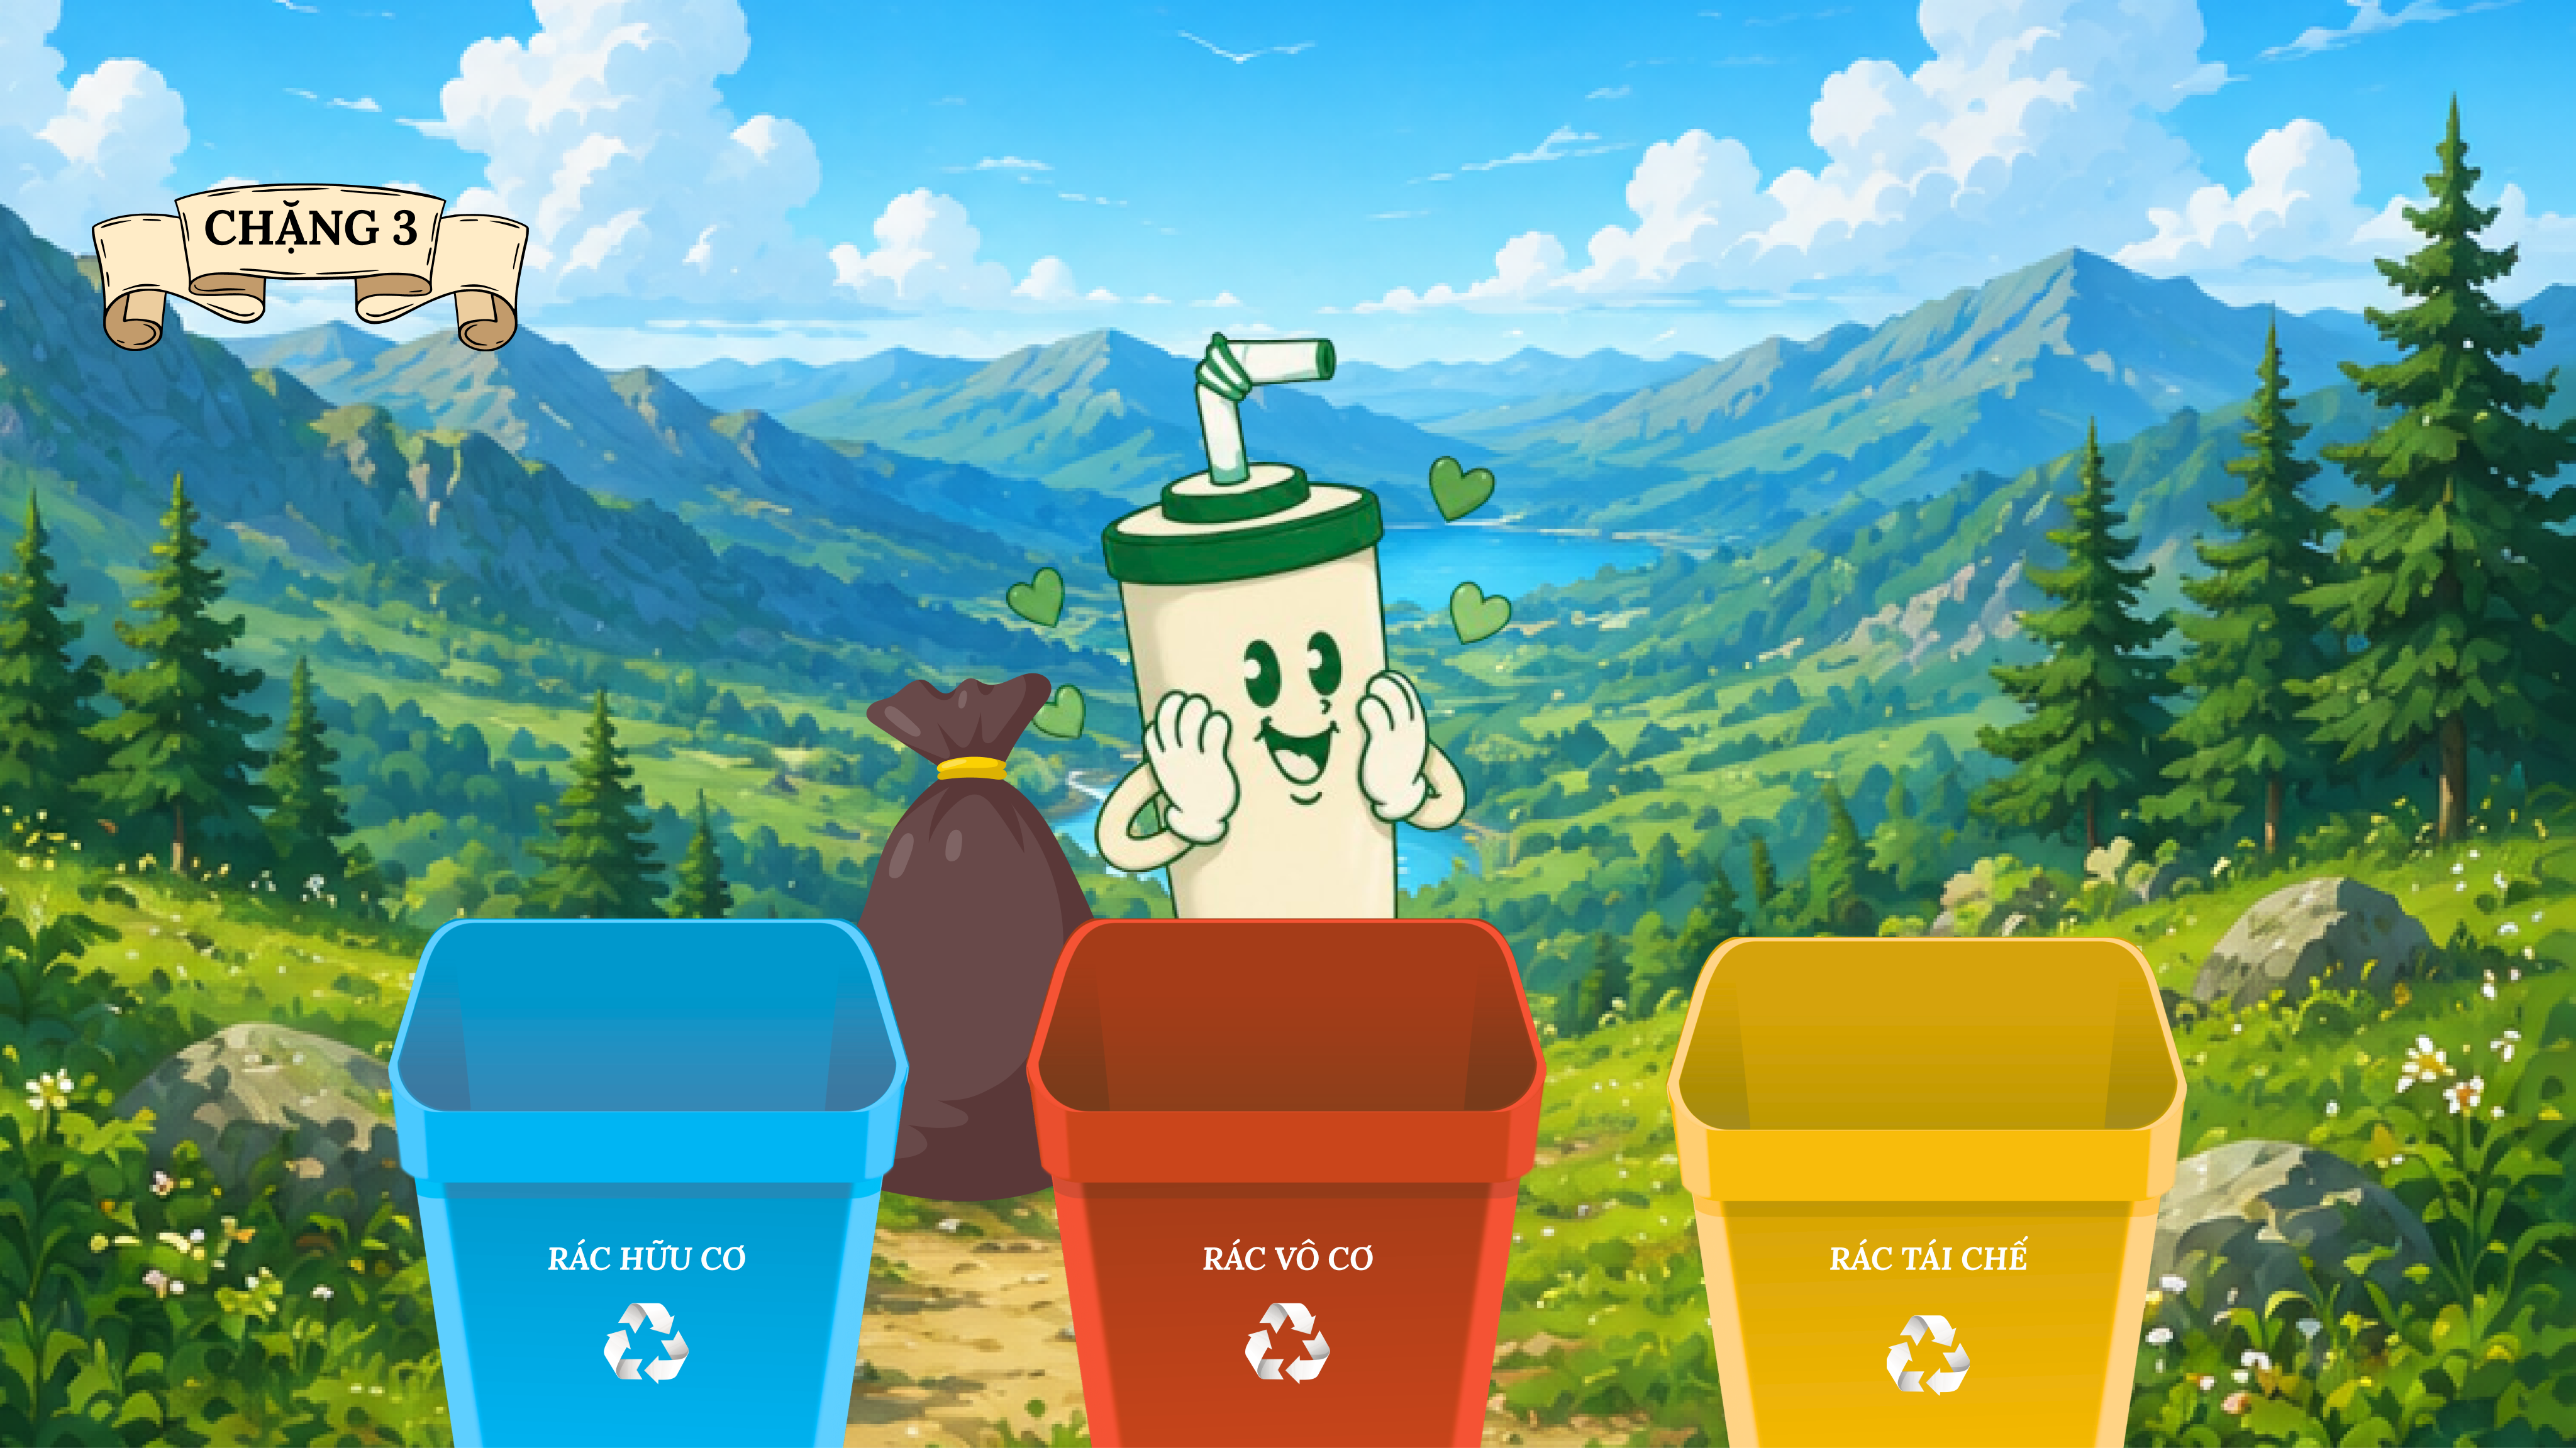
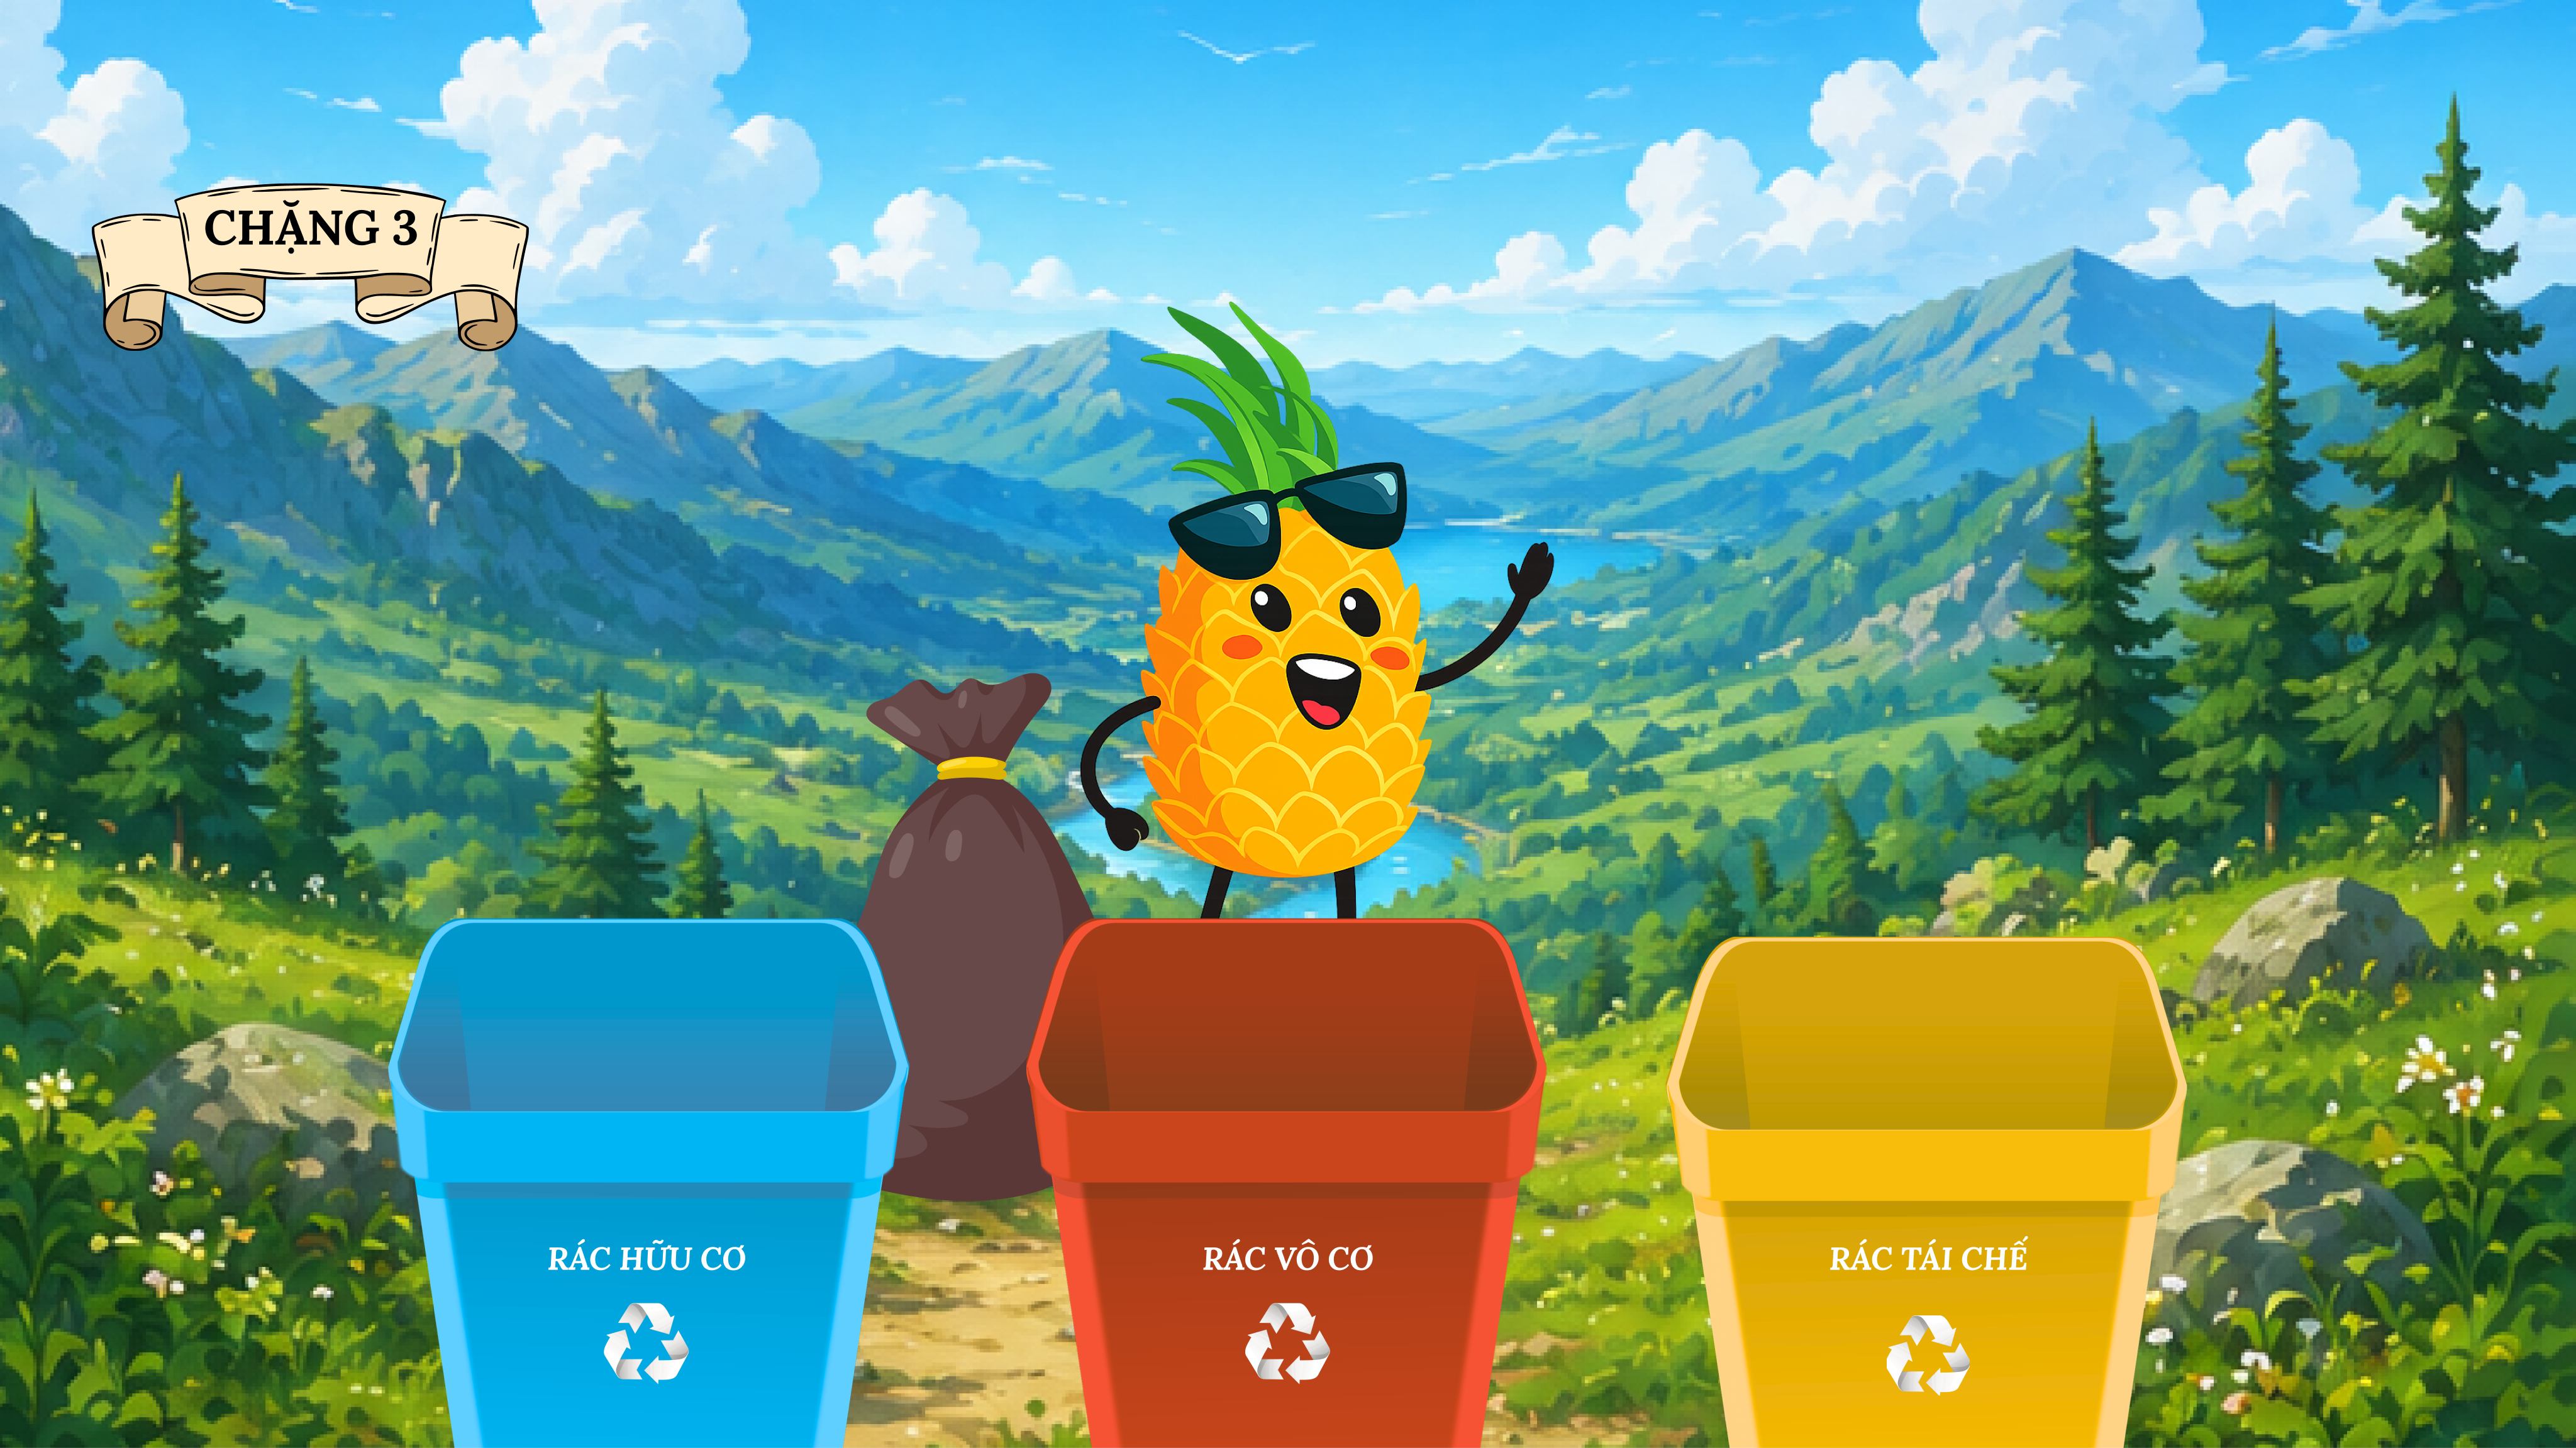
Change mascot

Changed region(s): [[0.375, 0.2158, 0.625, 0.6474]]

diff --git a/src/pages/ResultPage.css b/src/pages/ResultPage.css
@@ -189,13 +189,14 @@
 
 .result-mascot {
   position: absolute;
-  left: 3%;
+  left: 10%;
   bottom: 22cqh;
-  width: min(20cqw, 190px);
+  width: min(28cqw, 220px);
   height: auto;
   z-index: 7;
   pointer-events: none;
   filter: drop-shadow(0 8px 20px rgba(0, 0, 0, 0.25));
+  transform: scaleX(-1);
 }
 
 /* Certificate card — CSS frame */

diff --git a/src/pages/IntroductionPage.jsx b/src/pages/IntroductionPage.jsx
@@ -41,7 +41,7 @@ function IntroductionPage() {
             <div className="introduction-card-wrap">
               <img
                 src={mascotImg}
-                alt="Milo"
+                alt="Dứa Nhỏ"
                 className="introduction-mascot"
                 draggable={false}
               />
@@ -60,7 +60,7 @@ function IntroductionPage() {
                   nhiệm.
                 </p>
                 <p>
-                  Trong hành trình này, người chơi sẽ cùng Milo khám phá các địa điểm du
+                  Trong hành trình này, người chơi sẽ cùng Dứa Nhỏ khám phá các địa điểm du
                   lịch, thu gom rác thải và học cách phân loại rác đúng cách để góp phần
                   bảo vệ môi trường 🌍
                 </p>

diff --git a/src/pages/InputPage.jsx b/src/pages/InputPage.jsx
@@ -38,7 +38,7 @@ function InputPage() {
               <span className="leaf-icon">🌿</span>
             </h1>
             <p className="input-subtitle">
-              Hehe, mình là Milo. Mình có thể gọi bạn là gì đây nhỉ?
+              Hehe, mình là Dứa Nhỏ. Mình có thể gọi bạn là gì đây nhỉ?
             </p>
 
             <form className="input-form" onSubmit={handleSubmit}>

diff --git a/src/pages/InstructionPage.jsx b/src/pages/InstructionPage.jsx
@@ -66,7 +66,7 @@ const stages = [
     id: 3,
     label: 'CHẶNG 3',
     icon: phase3Icon,
-    title: 'CHẶNG 3: PHÂN LOẠI CÙNG MILO',
+    title: 'CHẶNG 3: PHÂN LOẠI CÙNG DỨA NHỎ',
     instructions: [
       {
         icon: bullet6,

diff --git a/src/pages/Phase1Game.jsx b/src/pages/Phase1Game.jsx
@@ -270,7 +270,7 @@ function Phase1Game() {
             <div className="phase1-bubble">
               <p>{bubbleMessage}</p>
             </div>
-            <img src={mascotImg} alt="Milo" className="phase1-mascot" draggable={false} />
+            <img src={mascotImg} alt="Dứa Nhỏ" className="phase1-mascot" draggable={false} />
           </div>
 
           {drag && (

diff --git a/src/pages/Phase2Game.css b/src/pages/Phase2Game.css
@@ -92,7 +92,7 @@
 .phase2-mascot-block {
   position: absolute;
   /* Anchor: lower-left corner of this block (feet sit on the bottom edge). */
-  left: 65%;
+  left: 70%;
   bottom: 30%;
   transform: none;
   width: min(38%, 360px);

diff --git a/src/pages/Phase2Game.jsx b/src/pages/Phase2Game.jsx
@@ -114,7 +114,7 @@ function Phase2Game() {
             <div className="phase2-bubble">
               <p>{MASCOT_MESSAGE}</p>
             </div>
-            <img src={mascotImg} alt="Milo" className="phase2-mascot" draggable={false} />
+            <img src={mascotImg} alt="Dứa Nhỏ" className="phase2-mascot" draggable={false} />
           </div>
 
           <div className="phase2-items-layer" aria-hidden>

diff --git a/src/pages/ResultPage.jsx b/src/pages/ResultPage.jsx
@@ -49,7 +49,7 @@ function ResultPage() {
           className="result-scene"
           style={{ backgroundImage: `url(${resultBg})` }}
         >
-          <img src={mascotImg} alt="Milo" className="result-mascot" draggable={false} />
+          <img src={mascotImg} alt="Dứa Nhỏ" className="result-mascot" draggable={false} />
 
           <article className="result-certificate" aria-label="Giấy chứng nhận">
             <h2 className="result-cert-title">GIẤY CHỨNG NHẬN</h2>